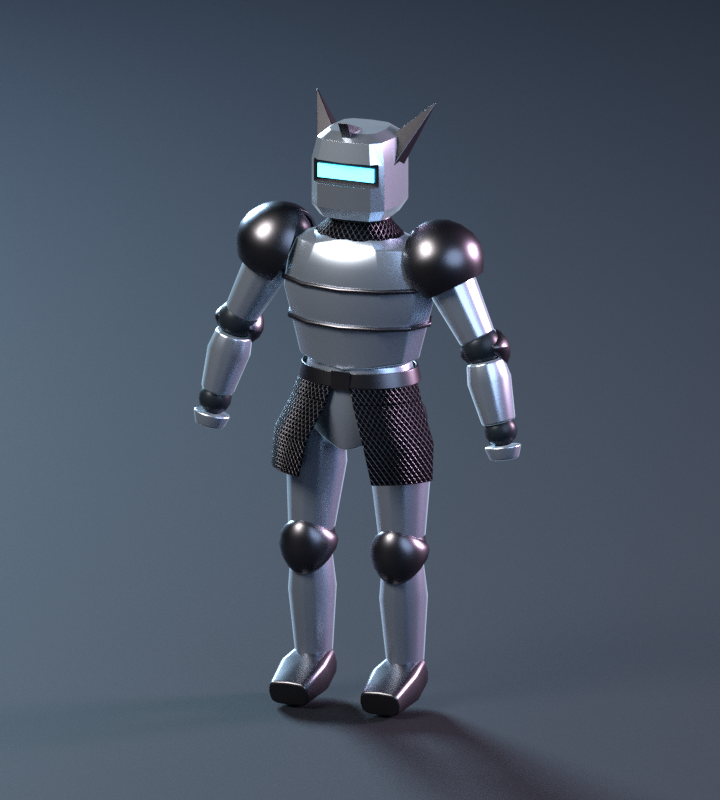
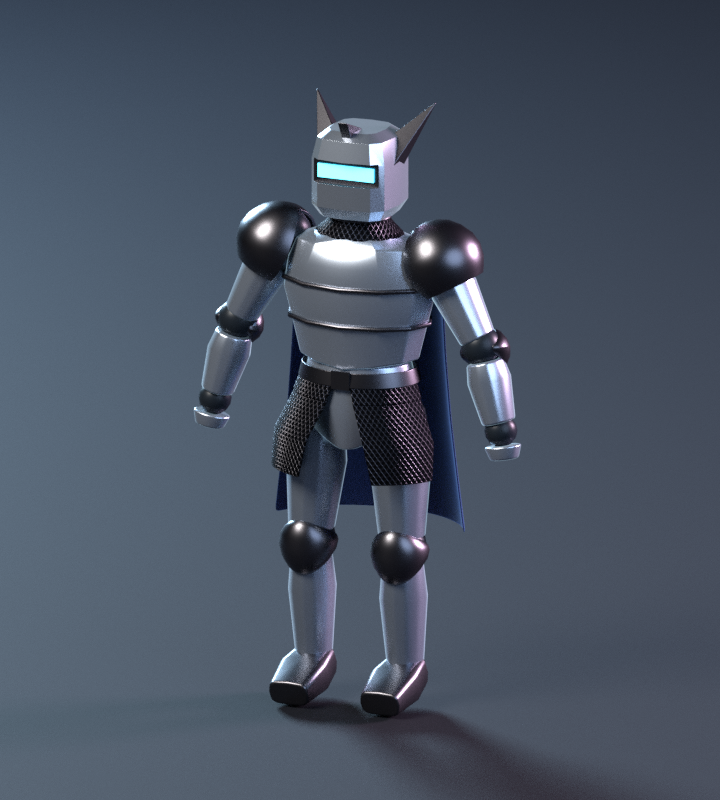
feat: add a bone-rigged midnight cape
Add a cape in the heroic player's midnight cloak finish that bends with
three four-bone chains (left, center, right) parented to the chest, via
an Armature modifier and smoothly blended weights. It hangs from behind
the shoulders to above the knees; the guard and step poses sway it back.
validate() now checks that bending the center chain moves the hem but not
the top edge.

diff --git a/dev-samples/3d-stage1/rigged-armor/build.py b/dev-samples/3d-stage1/rigged-armor/build.py
@@ -35,7 +35,7 @@ for side, sign in [('L', 1), ('R', -1)]:
 
 
 def material(name, color, metallic=0, roughness=.38, emission=None, strength=0,
-             rim=None, rim_strength=0):
+             rim=None, rim_strength=0, transmission=0):
     """Principled material with the heroic sprites' optional Fresnel rim glow
     (see ../build-heroic.py material())."""
     mat = bpy.data.materials.new(name)
@@ -47,6 +47,7 @@ def material(name, color, metallic=0, roughness=.38, emission=None, strength=0,
     shader.inputs['Metallic'].default_value = metallic
     shader.inputs['Roughness'].default_value = roughness
     shader.inputs['IOR'].default_value = 1.45
+    shader.inputs['Transmission Weight'].default_value = transmission
     if emission:
         shader.inputs['Emission Color'].default_value = (*emission, 1)
         shader.inputs['Emission Strength'].default_value = strength
@@ -444,6 +445,85 @@ def gorget(rig, mail, mat, count=32):
               for i in range(count)], .006, mat)
 
 
+# Cape profile behind the body: (z, half-width, half-depth, half-span in
+# degrees around the back). It hangs from behind the shoulders, tucked under
+# the pauldrons, to about the knees, and flares a little toward the hem.
+CAPE_PROFILE = [(1.44, .235, .155, 68), (1.30, .255, .185, 70), (1.10, .265, .19, 71),
+                (.90, .28, .21, 72), (.72, .30, .235, 74), (.55, .32, .26, 75)]
+# Three bone chains (left, center, right) down the cape, at these angles from
+# the front (180 is straight behind; left is +X), jointed at these heights.
+CAPE_CHAINS = {'L': 140, 'C': 180, 'R': 220}
+CAPE_JOINTS = [1.44, 1.22, 1.0, .78, .55]
+
+
+def cape_section(z):
+    """Interpolated (half-width, half-depth, half-span) of the cape at z."""
+    z = min(max(z, CAPE_PROFILE[-1][0]), CAPE_PROFILE[0][0])
+    for (z0, *a), (z1, *b) in zip(CAPE_PROFILE, CAPE_PROFILE[1:]):
+        if z1 <= z <= z0:
+            f = (z0 - z) / (z0 - z1)
+            return [u + (v - u) * f for u, v in zip(a, b)]
+    raise ValueError(z)
+
+
+def cape_point(angle, z):
+    """Point on the cape at `angle` degrees from the front, height z."""
+    width, depth, _ = cape_section(z)
+    return Vector((width * math.sin(math.radians(angle)), -depth * math.cos(math.radians(angle)), z))
+
+
+for _side, _angle in CAPE_CHAINS.items():
+    for _k in range(len(CAPE_JOINTS) - 1):
+        BONES[f'cape.{_side}.{_k + 1}'] = (
+            tuple(cape_point(_angle, CAPE_JOINTS[_k])), tuple(cape_point(_angle, CAPE_JOINTS[_k + 1])),
+            'chest' if _k == 0 else f'cape.{_side}.{_k}')
+
+
+def cape(rig, mat, columns=24, rows=24):
+    """Midnight-blue cloth cape, the one part that bends: an Armature modifier
+    deforms it with the cape bone chains, each vertex weighted between the
+    nearest chains around the back and the nearest bones down its length."""
+    top, hem = CAPE_PROFILE[0][0], CAPE_PROFILE[-1][0]
+    grid = []
+    for r in range(rows + 1):
+        z = top + (hem - top) * r / rows
+        span = cape_section(z)[2]
+        grid.append([(180 + span * (2 * c / columns - 1), z) for c in range(columns + 1)])
+    vertices = [tuple(cape_point(a, z)) for row in grid for a, z in row]
+    faces = [(r * (columns + 1) + c, r * (columns + 1) + c + 1,
+              (r + 1) * (columns + 1) + c + 1, (r + 1) * (columns + 1) + c)
+             for r in range(rows) for c in range(columns)]
+    mesh = bpy.data.meshes.new('Cape')
+    mesh.from_pydata(vertices, [], faces)
+    for face in mesh.polygons:
+        face.use_smooth = True
+    mesh.update()
+    obj = bpy.data.objects.new('Cape', mesh)
+    bpy.context.collection.objects.link(obj)
+    obj.data.materials.append(mat)
+    obj.parent = rig
+    groups = {name: obj.vertex_groups.new(name=name) for name in BONES if name.startswith('cape.')}
+    mids = [(a + b) / 2 for a, b in zip(CAPE_JOINTS, CAPE_JOINTS[1:])]
+    seg = CAPE_JOINTS[0] - CAPE_JOINTS[1]
+    for index, (angle, z) in enumerate(a for row in grid for a in row):
+        across = {s: max(0, 1 - abs(angle - a) / 40) for s, a in CAPE_CHAINS.items()}
+        down = [max(0, 1 - abs(z - m) / seg) for m in mids]
+        if z >= mids[0]:
+            down = [1] + [0] * (len(mids) - 1)
+        if z <= mids[-1]:
+            down = [0] * (len(mids) - 1) + [1]
+        total = sum(across.values()) * sum(down)
+        for s, wa in across.items():
+            for k, wd in enumerate(down):
+                if wa * wd:
+                    groups[f'cape.{s}.{k + 1}'].add([index], wa * wd / total, 'REPLACE')
+    obj.modifiers.new('Cape bones', 'ARMATURE').object = rig
+    cloth = obj.modifiers.new('Cloth thickness', 'SOLIDIFY')
+    cloth.thickness = .006
+    obj.modifiers.new('Soft folds', 'SUBSURF').levels = 1
+    return obj
+
+
 def helmet_crest_and_horns(rig, mat):
     """Crest and horns of the heroic player's helm (../build-heroic.py),
     scaled 0.8 about its head center (0, -.04, .83) onto this helmet's center."""
@@ -638,6 +718,10 @@ def build_armor(rig):
     breastplate.data.update()
     chest_seams(rig, trim)
     gorget(rig, mail, trim)
+    # Same midnight blue as the heroic player's cloak.
+    cloak = material('Player midnight cloak', (.025, .05, .16), roughness=.4, transmission=.15,
+                     rim=(.25, .45, 1.0), rim_strength=.6)
+    cape(rig, cloak)
     joint(rig, 'neck', .075, dark)
     # A rounded box like the heroic player's helm: flat top, upright sides.
     helmet_rings = [(-.035,.1075,.1075),(.0,.13,.13),
@@ -706,12 +790,15 @@ POSES = {
     40: ('GUARD', {'waist': (0, 0, 18), 'neck': (0, 0, -12),
          'upper_arm.R': (25, 0, -15), 'forearm.R': (95, 0, 0),
          'upper_arm.L': (35, 0, 15), 'forearm.L': (75, 0, 0),
-         'thigh.L': (12, 0, 0), 'shin.L': (-18, 0, 0)}),
+         'thigh.L': (12, 0, 0), 'shin.L': (-18, 0, 0),
+         'cape.L.2': (-4, 0, 0), 'cape.C.2': (-6, 0, 0), 'cape.R.2': (-8, 0, 0)}),
     80: ('STEP', {'waist': (0, 0, -10), 'neck': (0, 0, 10),
          'upper_arm.L': (-22, 0, 0), 'forearm.L': (20, 0, 0),
          'upper_arm.R': (25, 0, 0), 'forearm.R': (40, 0, 0),
          'thigh.L': (32, 0, 0), 'shin.L': (-40, 0, 0),
-         'thigh.R': (-15, 0, 0), 'shin.R': (-12, 0, 0)}),
+         'thigh.R': (-15, 0, 0), 'shin.R': (-12, 0, 0),
+         **{f'cape.{s}.{k}': (a, 0, 0) for s in 'LCR'
+            for k, a in ((1, -6), (2, -8), (3, -8), (4, -6))}}),
 }
 
 
@@ -777,7 +864,7 @@ def validate(rig, scene):
     """Verify each required joint carries armor and actually moves it rigidly."""
     required = ['neck','waist'] + [f'{part}.{side}' for side in ('L','R')
                 for part in ('upper_arm','forearm','thigh','shin')]
-    meshes = [o for o in scene.objects if o.parent == rig]
+    meshes = [o for o in scene.objects if o.parent == rig and o.name != 'Cape']
     assert all(o.parent_type == 'BONE' and o.parent_bone in BONES for o in meshes)
     scene.frame_set(1)
     for name in required:
@@ -791,8 +878,30 @@ def validate(rig, scene):
         assert abs(after.to_3x3().determinant()-before.to_3x3().determinant()) < 1e-5, name
         bone.rotation_euler = (0,0,0)
         bpy.context.view_layer.update()
+    # The cape bends: bending its middle chain moves the middle of the hem but
+    # not the middle of the top edge (checked with the Armature modifier only).
+    cape_obj = bpy.data.objects['Cape']
+    others = [m for m in cape_obj.modifiers if m.type != 'ARMATURE']
+    for m in others:
+        m.show_viewport = False
+    rest = [v.co for v in cape_obj.data.vertices]
+    top = max(range(len(rest)), key=lambda i: rest[i].z - abs(rest[i].x))
+    hem = min(range(len(rest)), key=lambda i: rest[i].z + abs(rest[i].x))
+
+    def cape_points():
+        mesh = cape_obj.evaluated_get(bpy.context.evaluated_depsgraph_get()).to_mesh()
+        return mesh.vertices[hem].co.copy(), mesh.vertices[top].co.copy()
+    hem0, top0 = cape_points()
+    rig.pose.bones['cape.C.2'].rotation_euler.x = math.radians(-30)
+    bpy.context.view_layer.update()
+    hem1, top1 = cape_points()
+    assert (hem1 - hem0).length > .05 and (top1 - top0).length < 1e-4, 'cape'
+    rig.pose.bones['cape.C.2'].rotation_euler = (0, 0, 0)
+    for m in others:
+        m.show_viewport = True
+    bpy.context.view_layer.update()
     scene.frame_set(1)
-    print(f'Validated {len(required)} required joints, {len(BONES)} bones, {len(meshes)} rigid parts')
+    print(f'Validated {len(required)} required joints, {len(BONES)} bones, {len(meshes)} rigid parts, bending cape')
 
 
 def main():

diff --git a/dev-samples/3d-stage1/rigged-armor/README.md b/dev-samples/3d-stage1/rigged-armor/README.md
@@ -21,6 +21,7 @@ Rotation で回転させる。回転はボーンのローカル座標。
 | 脚の付け根 | `thigh.L` / `.R` | 3軸回転 |
 | 膝 | `shin.L` / `.R` | ローカルX、−145〜0度 |
 | 手首・足首 | `hand.L` / `.R`、`foot.L` / `.R` | 3軸回転 |
+| マント | `cape.L.1`〜`.4`、`cape.C.*`、`cape.R.*` | 3軸回転。左・中央・右の鎖で布を曲げる |
 | 腰の斜め前の下板 | `hip_plate.L` / `.R` | 自動。太もものローカルX回転を前方向（0〜90度）だけコピー |
 
 `L` は本人の左。Z が上、−Y が正面。鎖骨・胸・頭も独立ボーン。
@@ -44,6 +45,10 @@ Rotation で回転させる。回転はボーンのローカル座標。
 見える部分の形を変えずに付け根を埋めている。
 胸甲は腹部まで伸ばし、正面の下端は中央が少し下がる浅いV字にしている。
 幅と厚みは心臓の高さ（z 1.30）で最大になり、肩に向かってゆるやかに細くなる。
+背中には heroic の主人公と同じ深い紺のマントを付けている。マントだけは鎧の板と違ってボーンで曲がる布で、
+左・中央・右の3本の鎖（各4本、根元は `chest`）に滑らかなウェイトで追従する（Armature モディファイア）。
+肩の後ろ（肩当ての下）から膝上まで下がり、背中を回り込んで裾へ少し広がる。サンプルの構えと一歩では
+裾を後ろへなびかせている。布のシミュレーションはないので、なびきはボーンを回して付ける。
 首には黒い鎖帷子の首当て（`Gorget`）を付けている（`chest` に固定）。胸甲の上端から立ち上がる
 低い円錐で、首に向かって細くなり、黒い鉄の丸棒の縁から垂れる。腰の鎖帷子と同じ材質で、
 寸法は `GORGET_SCALE`（高さと広がり）と `GORGET_RADIUS`（首への締まり）で調整できる。
